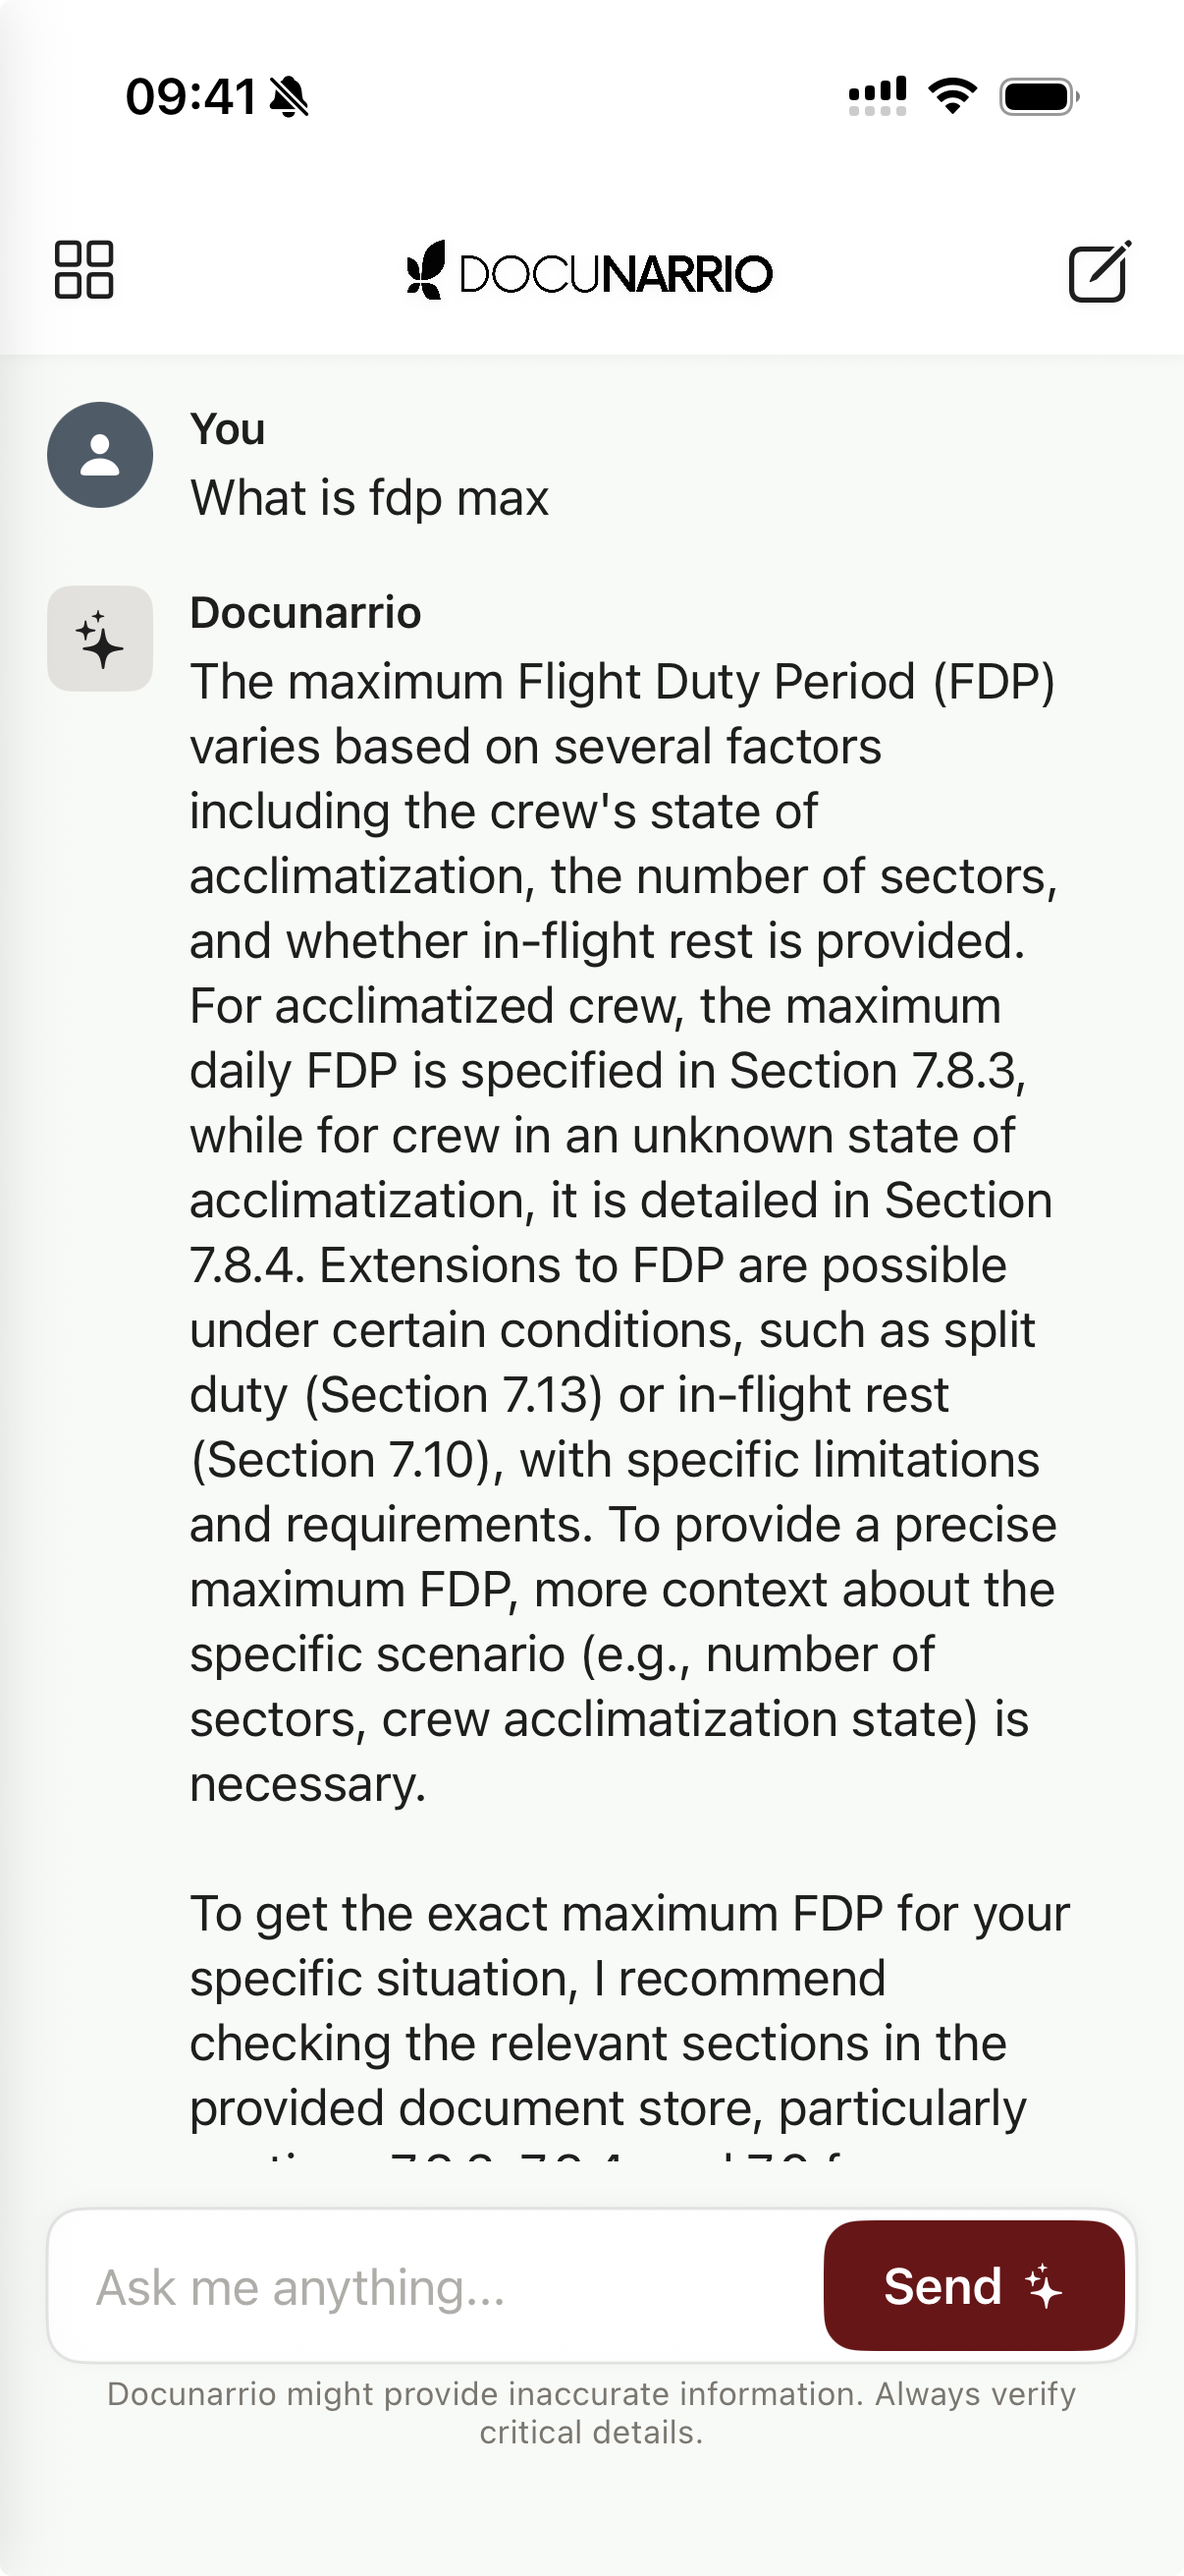
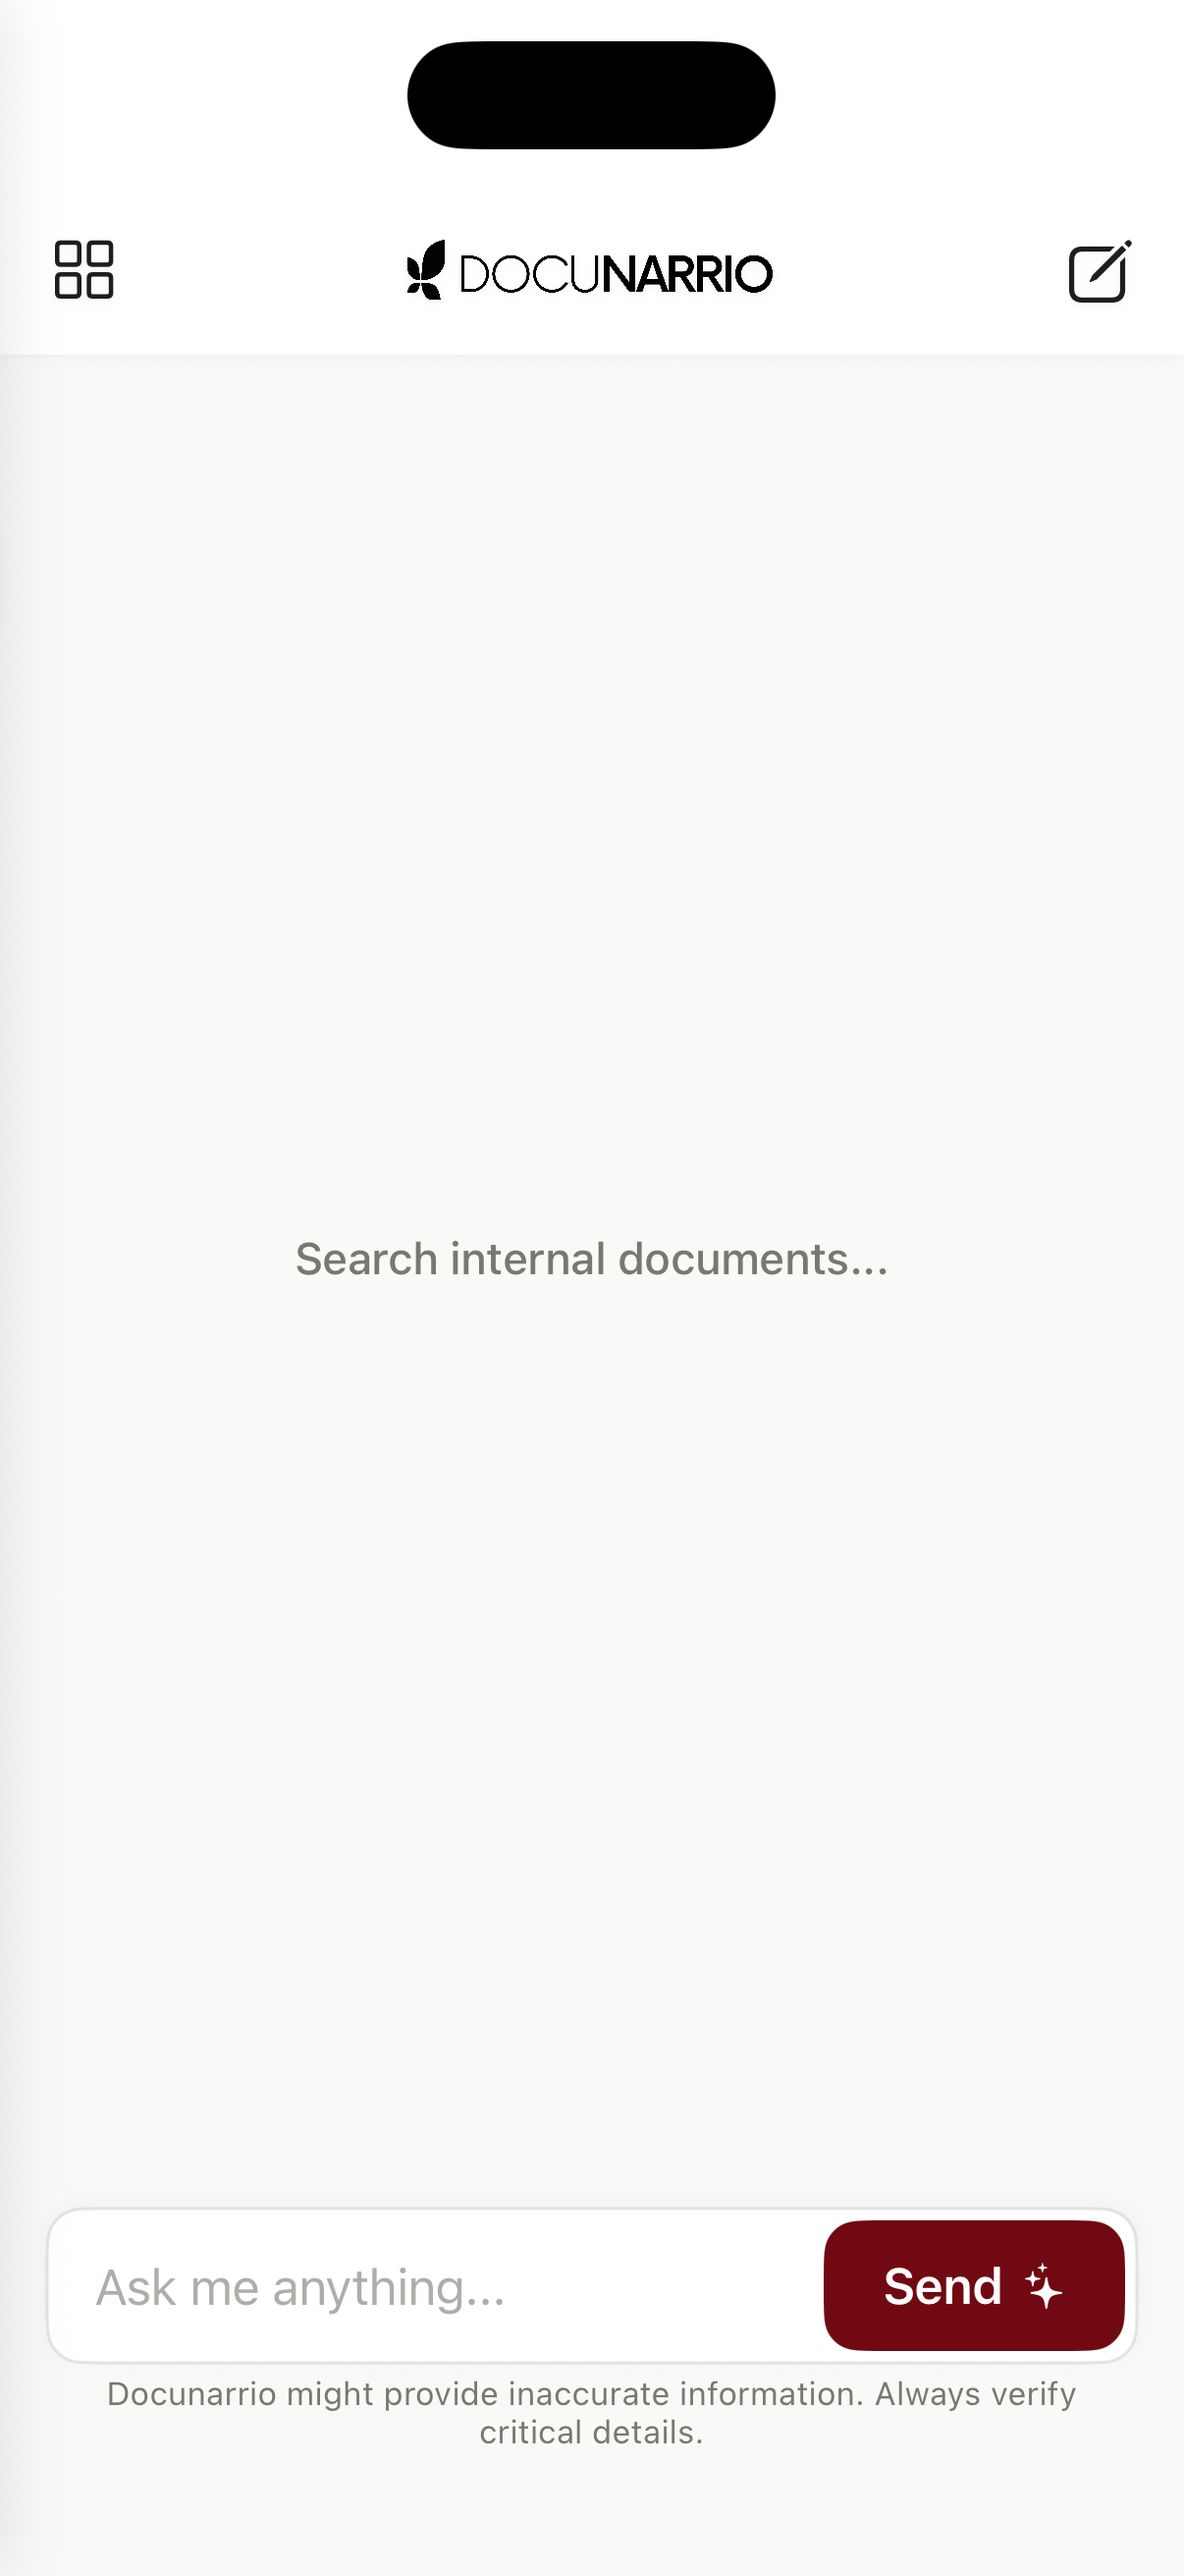
Add Brevo email integration and update mobile showcase
- Add /api/demo route for demo request emails via Brevo SMTP
- Update CTA with form state handling (sending, sent, error)
- Add iOS status bar to iPhone mockup
- Replace mobile screenshot with Chat View
- Move SMTP credentials to env variables

diff --git a/src/components/CTA.tsx b/src/components/CTA.tsx
@@ -1,4 +1,31 @@
+"use client";
+
+import { useState } from "react";
+
 export default function CTA() {
+  const [email, setEmail] = useState("");
+  const [status, setStatus] = useState<"idle" | "sending" | "sent" | "error">("idle");
+
+  async function handleSubmit(e: React.FormEvent) {
+    e.preventDefault();
+    if (!email || status === "sending") return;
+
+    setStatus("sending");
+    try {
+      const res = await fetch("/api/demo", {
+        method: "POST",
+        headers: { "Content-Type": "application/json" },
+        body: JSON.stringify({ email }),
+      });
+
+      if (!res.ok) throw new Error();
+      setStatus("sent");
+      setEmail("");
+    } catch {
+      setStatus("error");
+    }
+  }
+
   return (
     <section id="cta" className="py-[140px] bg-dark relative overflow-hidden">
       <div className="absolute -top-[200px] left-1/2 -translate-x-1/2 w-[800px] h-[800px] bg-[radial-gradient(circle,rgba(112,9,17,0.12)_0%,transparent_60%)] pointer-events-none" />
@@ -12,22 +39,55 @@ export default function CTA() {
             operational knowledge — faster decisions, fewer mistakes, complete
             privacy.
           </p>
-          <form className="flex flex-col sm:flex-row gap-3 max-w-[460px] mx-auto mb-4" onSubmit={(e) => e.preventDefault()}>
-            <input
-              type="email"
-              placeholder="Enter your work email"
-              className="flex-1 px-[22px] py-4 text-[15px] font-sans border-[1.5px] border-white/12 rounded-xl bg-white/5 text-white outline-none transition-all placeholder:text-white/30 focus:border-accent focus:bg-white/8"
-            />
-            <button
-              type="submit"
-              className="px-8 py-4 text-[15px] font-semibold text-white bg-accent rounded-xl shadow-[0_4px_14px_rgba(112,9,17,0.25)] hover:bg-accent-light hover:shadow-[0_6px_24px_rgba(112,9,17,0.35)] hover:-translate-y-0.5 transition-all cursor-pointer"
-            >
-              Request Demo
-            </button>
-          </form>
-          <span className="text-[13px] text-white/30">
-            We&apos;ll get back to you within 24 hours.
-          </span>
+
+          {status === "sent" ? (
+            <div className="max-w-[460px] mx-auto">
+              <div className="flex items-center justify-center gap-2 text-green-400 mb-2">
+                <svg width="20" height="20" fill="none" stroke="currentColor" strokeWidth="2" strokeLinecap="round" strokeLinejoin="round">
+                  <path d="M20 6L9 17l-5-5" />
+                </svg>
+                <span className="text-[15px] font-semibold">Demo request sent!</span>
+              </div>
+              <span className="text-[13px] text-white/30">
+                Check your inbox — we&apos;ll be in touch within 24 hours.
+              </span>
+            </div>
+          ) : (
+            <>
+              <form
+                className="flex flex-col sm:flex-row gap-3 max-w-[460px] mx-auto mb-4"
+                onSubmit={handleSubmit}
+              >
+                <input
+                  type="email"
+                  required
+                  placeholder="Enter your work email"
+                  value={email}
+                  onChange={(e) => {
+                    setEmail(e.target.value);
+                    if (status === "error") setStatus("idle");
+                  }}
+                  className="flex-1 px-[22px] py-4 text-[15px] font-sans border-[1.5px] border-white/12 rounded-xl bg-white/5 text-white outline-none transition-all placeholder:text-white/30 focus:border-accent focus:bg-white/8"
+                />
+                <button
+                  type="submit"
+                  disabled={status === "sending"}
+                  className="px-8 py-4 text-[15px] font-semibold text-white bg-accent rounded-xl shadow-[0_4px_14px_rgba(112,9,17,0.25)] hover:bg-accent-light hover:shadow-[0_6px_24px_rgba(112,9,17,0.35)] hover:-translate-y-0.5 transition-all cursor-pointer disabled:opacity-60 disabled:hover:translate-y-0"
+                >
+                  {status === "sending" ? "Sending..." : "Request Demo"}
+                </button>
+              </form>
+              {status === "error" ? (
+                <span className="text-[13px] text-red-400">
+                  Something went wrong. Please try again.
+                </span>
+              ) : (
+                <span className="text-[13px] text-white/30">
+                  We&apos;ll get back to you within 24 hours.
+                </span>
+              )}
+            </>
+          )}
         </div>
       </div>
     </section>

diff --git a/src/app/api/demo/route.ts b/src/app/api/demo/route.ts
@@ -1,0 +1,87 @@
+import { NextResponse } from "next/server";
+import nodemailer from "nodemailer";
+
+const transporter = nodemailer.createTransport({
+  host: "smtp-relay.brevo.com",
+  port: 587,
+  secure: false,
+  auth: {
+    user: process.env.BREVO_SMTP_USER,
+    pass: process.env.BREVO_SMTP_KEY,
+  },
+});
+
+export async function POST(request: Request) {
+  try {
+    const { email } = await request.json();
+
+    if (!email || !/^[^\s@]+@[^\s@]+\.[^\s@]+$/.test(email)) {
+      return NextResponse.json(
+        { error: "Valid email is required" },
+        { status: 400 }
+      );
+    }
+
+    // Add contact to Brevo via API
+    try {
+      const contactRes = await fetch("https://api.brevo.com/v3/contacts", {
+        method: "POST",
+        headers: {
+          "api-key": process.env.BREVO_SMTP_KEY!,
+          "Content-Type": "application/json",
+        },
+        body: JSON.stringify({
+          email,
+          attributes: { DEMO_REQUESTED: true },
+          listIds: [],
+          updateEnabled: true,
+        }),
+      });
+      console.log("Brevo contact response:", contactRes.status, await contactRes.text());
+    } catch (err) {
+      console.error("Brevo contact creation failed:", err);
+    }
+
+    // Send notification to team
+    console.log("Sending notification email to info@docunarrio.com...");
+    const notifResult = await transporter.sendMail({
+      from: '"Docunarrio" <info@docunarrio.com>',
+      to: "info@docunarrio.com",
+      subject: `Demo Request from ${email}`,
+      html: `
+        <div style="font-family: sans-serif; max-width: 480px;">
+          <h2 style="color: #700911;">New Demo Request</h2>
+          <p><strong>Email:</strong> ${email}</p>
+          <p><strong>Time:</strong> ${new Date().toISOString()}</p>
+        </div>
+      `,
+    });
+    console.log("Notification sent:", notifResult.messageId);
+
+    // Send confirmation to requester
+    console.log("Sending confirmation email to", email);
+    const confirmResult = await transporter.sendMail({
+      from: '"Docunarrio" <info@docunarrio.com>',
+      to: email,
+      subject: "We received your demo request",
+      html: `
+        <div style="font-family: sans-serif; max-width: 520px; color: #1e1e1e;">
+          <h2 style="color: #700911;">Thanks for your interest in Docunarrio</h2>
+          <p>We've received your demo request and will get back to you within 24 hours.</p>
+          <p style="color: #7b776f; font-size: 14px; margin-top: 24px;">
+            — The Docunarrio Team
+          </p>
+        </div>
+      `,
+    });
+    console.log("Confirmation sent:", confirmResult.messageId);
+
+    return NextResponse.json({ success: true });
+  } catch (err) {
+    console.error("Email send failed:", err);
+    return NextResponse.json(
+      { error: "Failed to send request" },
+      { status: 500 }
+    );
+  }
+}

diff --git a/src/components/MobileShowcase.tsx b/src/components/MobileShowcase.tsx
@@ -40,8 +40,31 @@ export default function MobileShowcase() {
             <div className="w-[280px] relative">
               <div className="relative aspect-[9/19.5] w-full rounded-[3rem] bg-[#0a0a0a] shadow-[0_2px_8px_rgba(0,0,0,0.12),0_12px_40px_rgba(0,0,0,0.15)]">
                 <div className="absolute inset-[3px] rounded-[2.8rem] overflow-hidden bg-black">
-                  {/* Dynamic Island */}
-                  <div className="absolute top-3 left-1/2 -translate-x-1/2 z-10 w-[90px] h-[22px] bg-black rounded-full" />
+                  {/* Status bar */}
+                  <div className="absolute top-0 left-0 right-0 z-20 flex items-center justify-between px-6 pt-3 pb-1">
+                    <span className="text-[11px] font-semibold text-black">9:41</span>
+                    <div className="flex items-center gap-1">
+                      {/* Signal */}
+                      <svg width="14" height="10" viewBox="0 0 14 10" fill="black">
+                        <rect x="0" y="7" width="2.5" height="3" rx="0.5" />
+                        <rect x="3.5" y="5" width="2.5" height="5" rx="0.5" />
+                        <rect x="7" y="2.5" width="2.5" height="7.5" rx="0.5" />
+                        <rect x="10.5" y="0" width="2.5" height="10" rx="0.5" />
+                      </svg>
+                      {/* WiFi */}
+                      <svg width="13" height="10" viewBox="0 0 13 10" fill="black">
+                        <path d="M6.5 9.2a1.1 1.1 0 1 0 0-2.2 1.1 1.1 0 0 0 0 2.2Z" />
+                        <path d="M3.8 6.5a3.8 3.8 0 0 1 5.4 0" stroke="black" strokeWidth="1.2" fill="none" strokeLinecap="round" />
+                        <path d="M1.5 4.2a6.8 6.8 0 0 1 10 0" stroke="black" strokeWidth="1.2" fill="none" strokeLinecap="round" />
+                      </svg>
+                      {/* Battery */}
+                      <svg width="22" height="10" viewBox="0 0 22 10" fill="none">
+                        <rect x="0.5" y="0.5" width="18" height="9" rx="2" stroke="black" strokeWidth="1" />
+                        <rect x="2" y="2" width="13" height="6" rx="1" fill="black" />
+                        <path d="M20 3.5v3a1.5 1.5 0 0 0 0-3Z" fill="black" />
+                      </svg>
+                    </div>
+                  </div>
                   {/* Screen */}
                   <Image
                     src="/mobiledocu.png"
